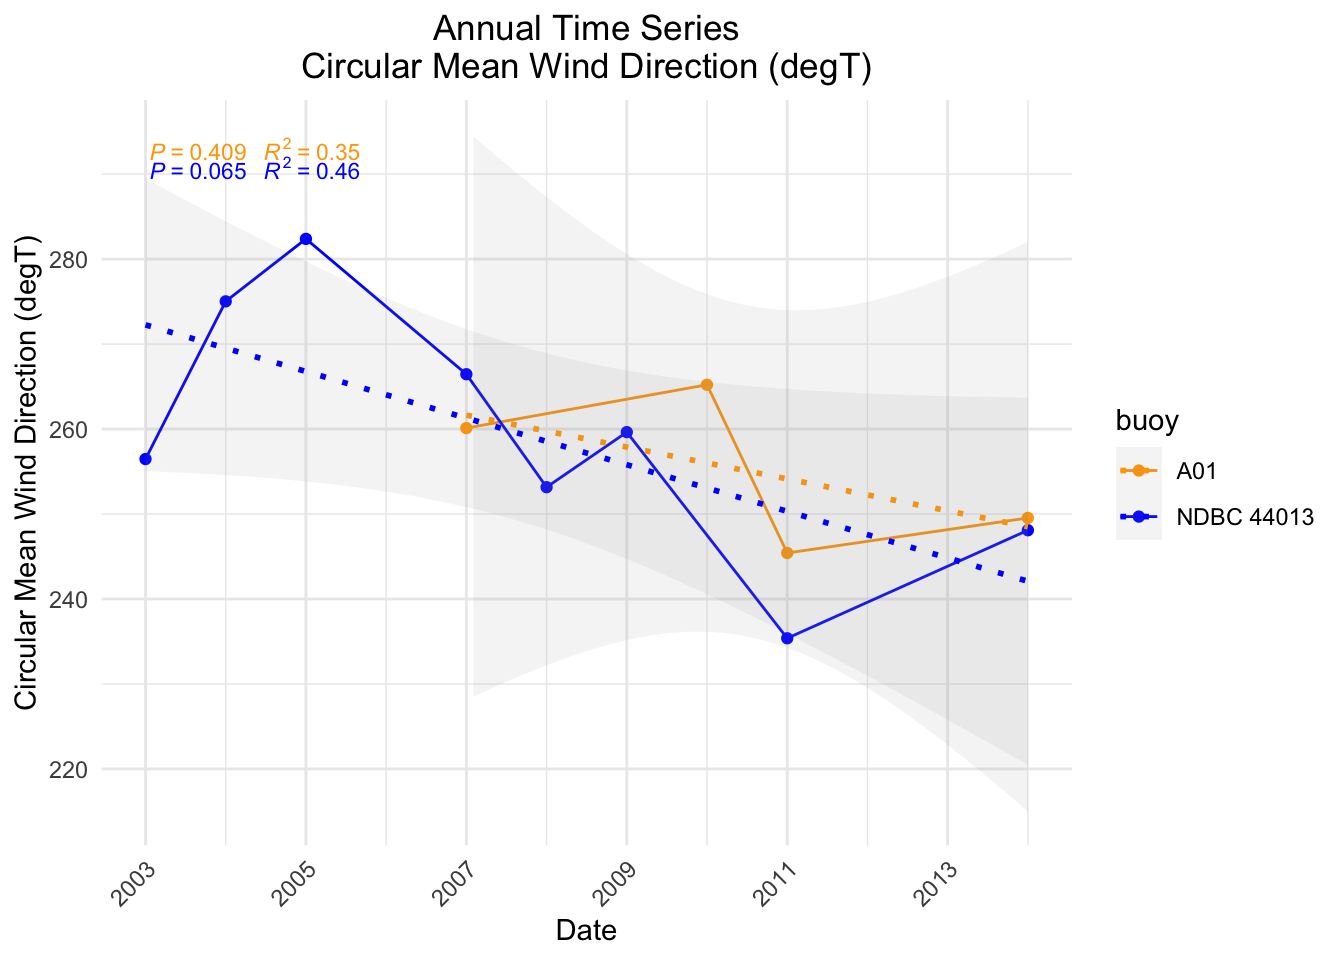
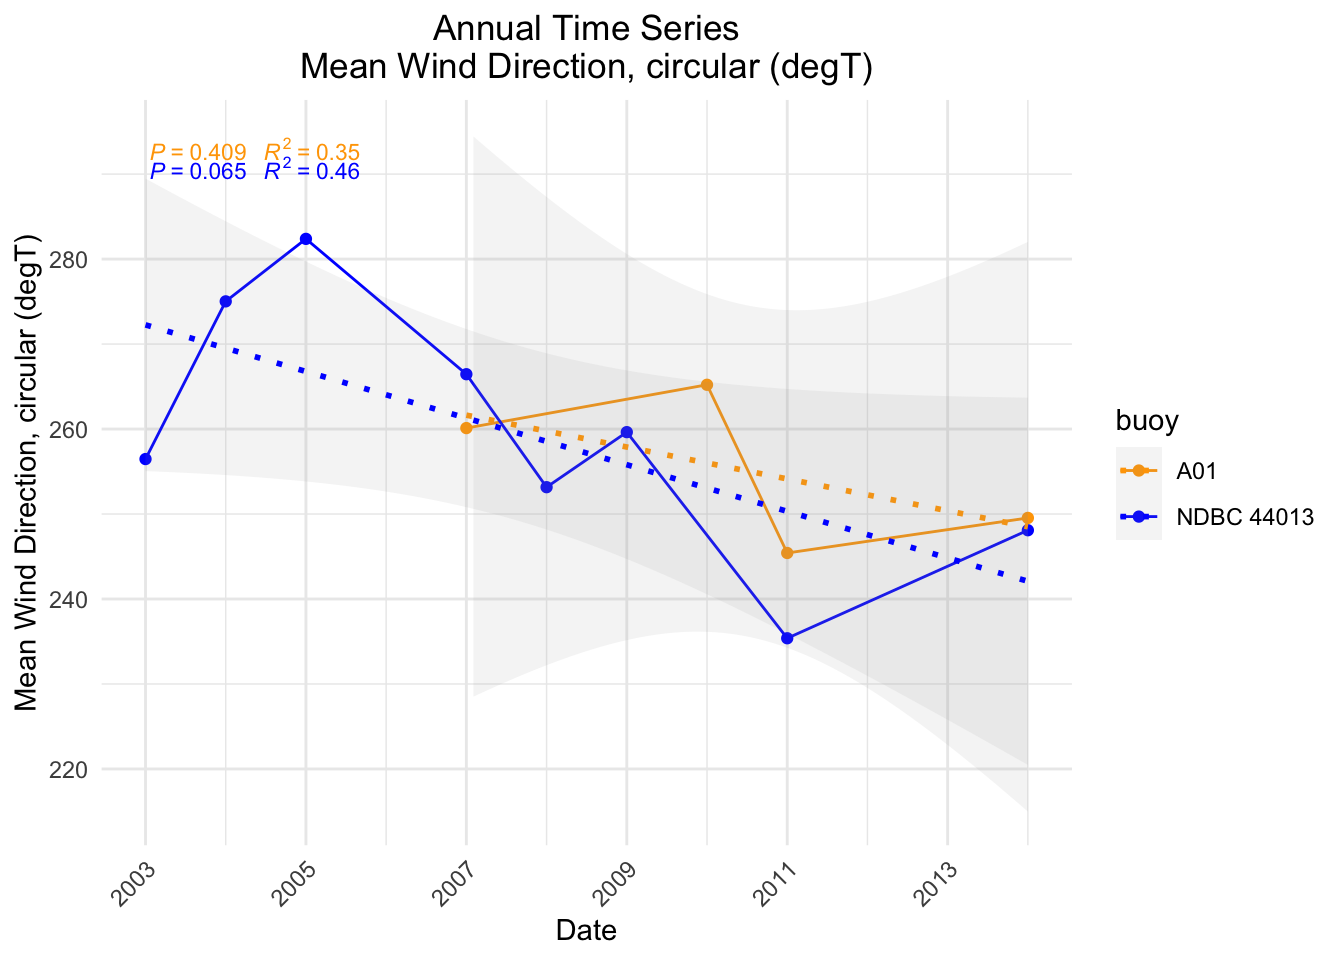
Change y axis label on plot

Changed region(s): [[0.2188, 0.0312, 0.6562, 0.0938], [0.0, 0.25, 0.0312, 0.75]]

diff --git a/quarto_docs/buoys_merged.html b/quarto_docs/buoys_merged.html
@@ -204,7 +204,7 @@ pre > code.sourceCode > span > a:first-child::before { text-decoration: underlin
 <span id="cb4-54"><a href="#cb4-54" aria-hidden="true" tabindex="-1"></a>  <span class="at">sst_mean =</span> <span class="st">"Sea surface temperature (degC)"</span>,</span>
 <span id="cb4-55"><a href="#cb4-55" aria-hidden="true" tabindex="-1"></a>  <span class="at">temperature_20m =</span> <span class="st">"Water Temperature @20m (degC)"</span>,</span>
 <span id="cb4-56"><a href="#cb4-56" aria-hidden="true" tabindex="-1"></a>  <span class="at">wind_direction_simple_mean =</span> <span class="st">"Simple Mean Wind Direction (degT)"</span>,</span>
-<span id="cb4-57"><a href="#cb4-57" aria-hidden="true" tabindex="-1"></a>  <span class="at">wind_direction_mean =</span> <span class="st">"Circular Mean Wind Direction (degT)"</span>, </span>
+<span id="cb4-57"><a href="#cb4-57" aria-hidden="true" tabindex="-1"></a>  <span class="at">wind_direction_mean =</span> <span class="st">"Mean Wind Direction, circular (degT)"</span>, </span>
 <span id="cb4-58"><a href="#cb4-58" aria-hidden="true" tabindex="-1"></a>  <span class="at">wind_speed_mean =</span> <span class="st">"Wind speed (m/s)"</span>)</span>
 <span id="cb4-59"><a href="#cb4-59" aria-hidden="true" tabindex="-1"></a></span>
 <span id="cb4-60"><a href="#cb4-60" aria-hidden="true" tabindex="-1"></a></span>
